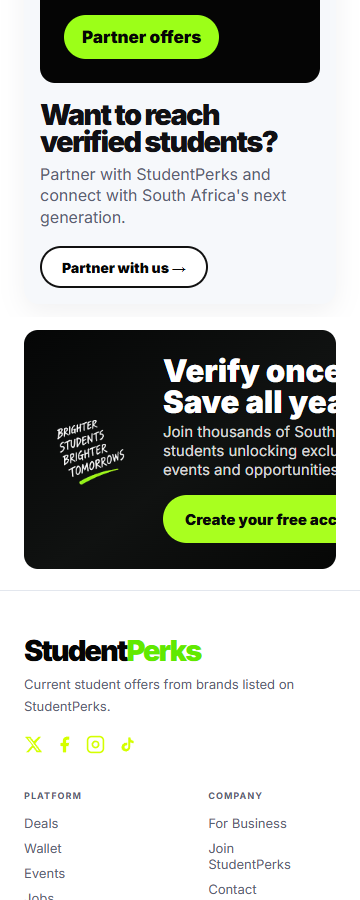
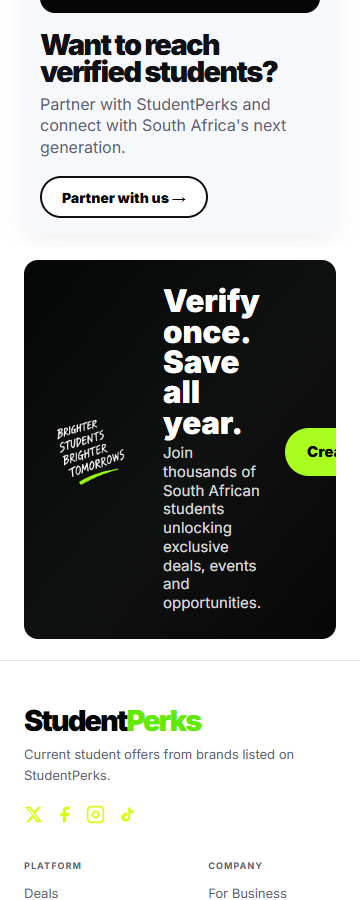
Place verify save button on right

diff --git a/index.html b/index.html
@@ -1812,44 +1812,41 @@ body.public-redesign .applied-banner {
 }
 @media(max-width:900px){
   .verify-save {
-    grid-template-columns: 154px minmax(0, 1fr) 78px;
-    grid-template-areas:
-      "mark copy rays"
-      "mark button rays";
-    column-gap: 18px;
-    row-gap: 8px;
+    grid-template-columns: 118px minmax(300px, 1fr) 28px auto;
+    grid-template-areas: "mark copy rays button";
+    column-gap: 10px;
     min-height: 130px;
     padding: 15px 22px;
   }
   .verify-save__mark {
     grid-area: mark;
-    width: 128px;
+    width: 108px;
     justify-self: center;
   }
   .verify-save__copy {
     grid-area: copy;
   }
   .verify-save__copy h2 {
-    font-size: 30px;
+    font-size: 25px;
   }
   .verify-save__copy p {
-    max-width: 390px;
-    font-size: 12px;
+    max-width: 330px;
+    font-size: 11px;
     line-height: 1.25;
   }
   .verify-save__rays {
     grid-area: rays;
     display: block;
-    width: 52px;
+    width: 28px;
     justify-self: center;
   }
   .verify-save__button {
     grid-area: button;
-    justify-self: start;
-    min-height: 42px;
-    gap: 12px;
-    padding: 0 22px;
-    font-size: 13px;
+    justify-self: end;
+    min-height: 40px;
+    gap: 9px;
+    padding: 0 13px;
+    font-size: 10.5px;
   }
   .verify-save__button img {
     width: 18px;
@@ -1858,29 +1855,28 @@ body.public-redesign .applied-banner {
 }
 @media(max-width:760px) and (min-width:561px){
   .verify-save {
-    grid-template-columns: 116px minmax(390px, 1fr) 30px;
-    column-gap: 5px;
-    row-gap: 8px;
-    padding: 15px 16px;
+    grid-template-columns: 82px minmax(285px, 1fr) 22px auto;
+    column-gap: 7px;
+    padding: 15px 12px;
   }
   .verify-save__mark {
-    width: 112px;
+    width: 78px;
   }
   .verify-save__copy h2 {
-    font-size: 27px;
+    font-size: 22px;
   }
   .verify-save__copy p {
-    max-width: 390px;
-    font-size: 11.5px;
+    max-width: 285px;
+    font-size: 9.5px;
   }
   .verify-save__rays {
-    width: 30px;
+    width: 22px;
   }
   .verify-save__button {
-    min-height: 42px;
-    gap: 10px;
-    padding: 0 18px;
-    font-size: 12.5px;
+    min-height: 36px;
+    gap: 7px;
+    padding: 0 10px;
+    font-size: 9px;
   }
 }
 @media(max-width:560px){
